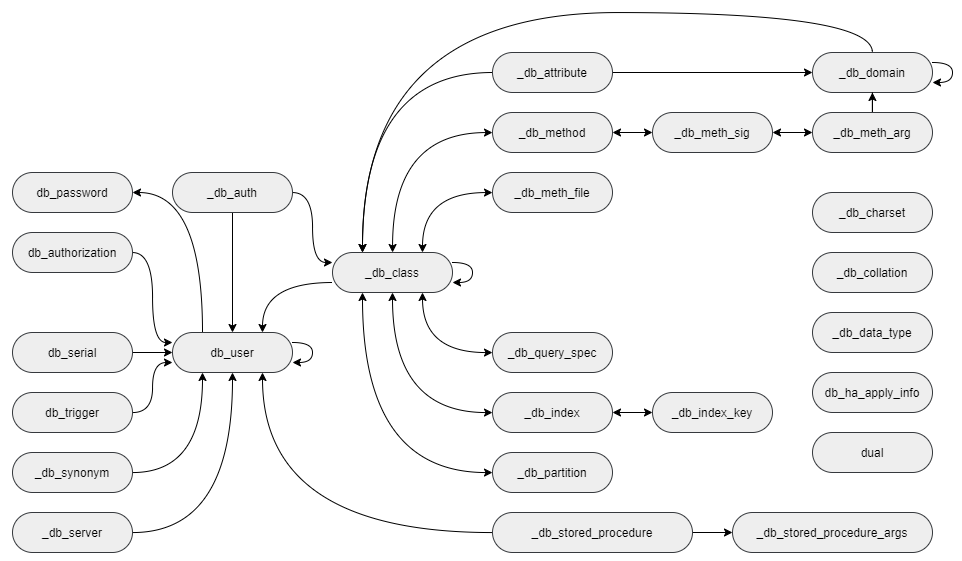
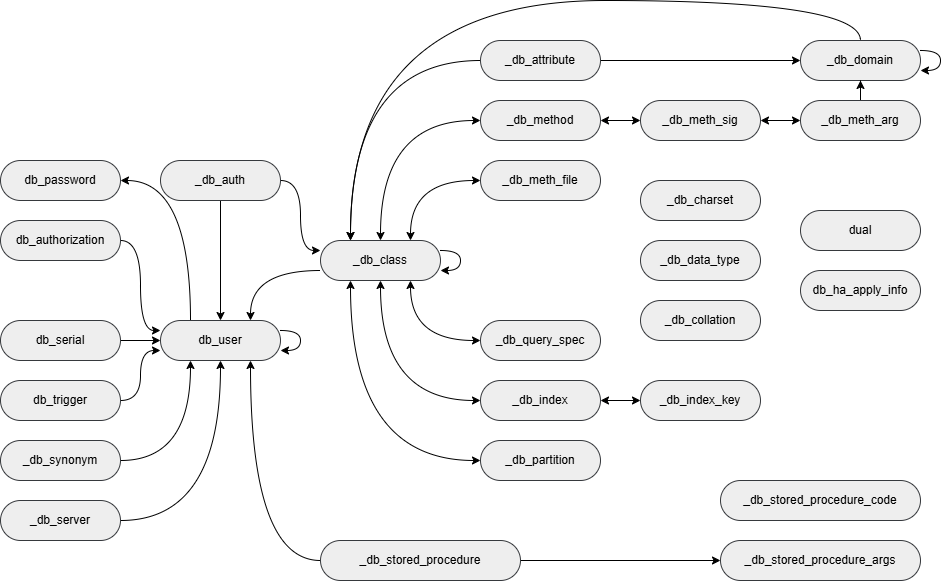
[CUBRIDMAN-268] Update system catalog figure and revise descriptions (#617)
http://jira.cubrid.org/browse/CUBRIDMAN-268

- Update system catalog figure
- Revise incorrect description related to system catalog

diff --git a/en/sql/catalog.rst b/en/sql/catalog.rst
@@ -12,7 +12,7 @@ You can easily get various schema information from the SQL statement by using th
 
 .. code-block:: sql
 
-    -- Classes that refer to the 'b_user' class
+    -- Classes that refer to the 'db_user' class
     SELECT class_name
     FROM db_attribute
     WHERE domain_class_name = 'db_user';
@@ -53,8 +53,9 @@ Class Name                       Description
 :ref:`-db-auth`                  User authorization information of classes
 :ref:`-db-data-type`             The data type supported by CUBRID
 :ref:`-db-partition`             Partition information
-:ref:`-db-stored-procedure`      Java stored procedure information
-:ref:`-db-stored-procedure-args` Java stored procedure argument information
+:ref:`-db-stored-procedure`      Stored procedure information
+:ref:`-db-stored-procedure-args` Stored procedure argument information
+:ref:`-db-stored-procedure-code` Stored procedure code information
 :ref:`-db-server`                Server information for DBLink
 :ref:`-db-synonym`               Target object information of synonyms
 :ref:`db-user`                   User information
@@ -806,7 +807,6 @@ Represents Stored procedure argument information. An index for sp_of is created.
 Attribute Name       Data Type                   Description
 ==================== =========================== =========================================================
 sp_of                _db_stored_procedure        Stored procedure object
-pkg_name             CHARACTER VARYING(255)      Package name containing the stored procedure
 index_of             INTEGER                     Order of the arguments
 is_system_generated  INTEGER                     Indicates whether the stored procedure is system-generated
 arg_name             CHARACTER VARYING(255)      Argument name
@@ -1209,8 +1209,8 @@ Virtual Class Name               Description
 :ref:`db-auth`                   User authorization information of classes
 :ref:`db-trig`                   Trigger information
 :ref:`db-partition`              Partition information
-:ref:`db-stored-procedure`       Java stored procedure information
-:ref:`db-stored-procedure-args`  Java stored procedure argument information
+:ref:`db-stored-procedure`       Stored procedure information
+:ref:`db-stored-procedure-args`  Stored procedure argument information
 :ref:`db-server`                 Server information for DBLink
 :ref:`db-synonym`                Target object information of synonyms
 ================================ ==============================================================================

diff --git a/ko/sql/catalog.rst b/ko/sql/catalog.rst
@@ -810,7 +810,6 @@ _db_stored_procedure_args
 속성명                데이터 타입                 설명
 ==================== =========================== =========================================================
 sp_of                _db_stored_procedure        저장 프로시저의 객체
-pkg_name             CHARACTER VARYING(255)      저장 프로시저가 속한 패키지 이름
 index_of             INTEGER                     매개변수의 순서
 is_system_generated  INTEGER                     시스템이 생성한 저장 프로시저 인수 여부
 arg_name             CHARACTER VARYING(255)      매개변수의 이름
